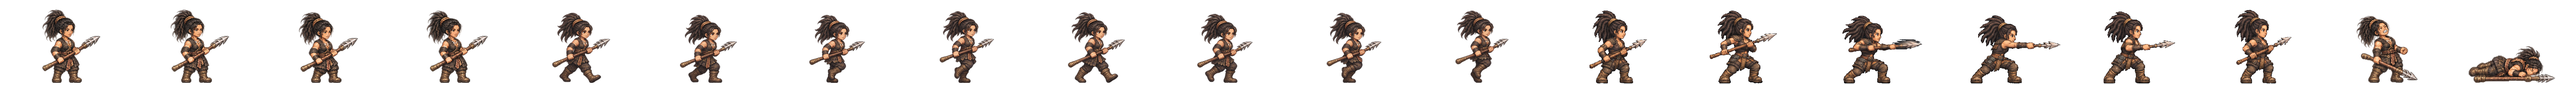
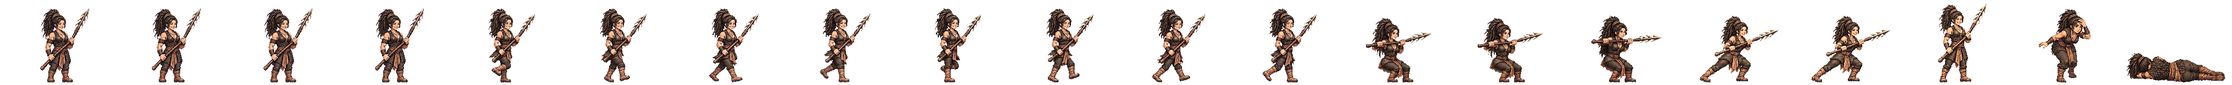
우산 강치 · 벽진 별빛 새 전투 띠를 게임에 (창 · 새 찌르기 · 맞음 네 칸) + 여섯째 묶음 인수인계 · 별빛은 끝까지 찌른 칸 창이 길어 a4 로 · 독립 검수 둘 다 넣어도 된다 · 자루 곧음 확인
Claude-Session: https://claude.ai/code/session_01TRiuN7s6aDfSnaHxrkctmU

Changed region(s): [[0.0, 0.0938, 1.0, 1.0]]

diff --git a/src/realm/data/spritePx.ts b/src/realm/data/spritePx.ts
@@ -1,3 +1,3 @@
 /** public/realm/anim-px/manifest.json 의 사본 — tools/sprite-normalize.mjs 가 만든다 (손으로 고치지 말 것). 칸 [가로, 세로] · feet = 발 줄(칸 위에서 y) · bodyPx = 서 있는 몸 키 */
 import { expandManifest } from './sprite-manifest.ts'
-export const SPRITE_PX: Readonly<Record<string, { readonly cell: readonly [number, number]; readonly feet: number; readonly bodyPx: number; readonly kind: 'general' | 'soldier' | 'folk' | 'crowd'; readonly cells: number }>> = expandManifest<{ readonly cell: readonly [number, number]; readonly feet: number; readonly bodyPx: number; readonly kind: 'general' | 'soldier' | 'folk' | 'crowd'; readonly cells: number }>([{"cell":[166,128],"feet":126,"bodyPx":124,"kind":"soldier","cells":20},{"cell":[116,128],"feet":126,"bodyPx":117,"kind":"soldier","cells":20},{"cell":[127,128],"feet":126,"bodyPx":116,"kind":"soldier","cells":20},{"cell":[269,128],"feet":126,"bodyPx":126,"kind":"soldier","cells":20},{"cell":[503,128],"feet":126,"bodyPx":127,"kind":"soldier","cells":20},{"cell":[614,128],"feet":126,"bodyPx":126,"kind":"soldier","cells":20},{"cell":[200,160],"feet":156,"bodyPx":138,"kind":"general","cells":20},{"cell":[208,160],"feet":155,"bodyPx":138,"kind":"general","cells":20},{"cell":[208,160],"feet":154,"bodyPx":138,"kind":"general","cells":20},{"cell":[304,160],"feet":155,"bodyPx":135,"kind":"general","cells":20},{"cell":[184,160],"feet":156,"bodyPx":138,"kind":"general","cells":20},{"cell":[208,160],"feet":154,"bodyPx":136,"kind":"general","cells":20},{"cell":[240,160],"feet":156,"bodyPx":138,"kind":"general","cells":20},{"cell":[232,160],"feet":156,"bodyPx":138,"kind":"general","cells":20},{"cell":[208,160],"feet":156,"bodyPx":138,"kind":"general","cells":20},{"cell":[168,160],"feet":156,"bodyPx":124,"kind":"general","cells":20},{"cell":[216,160],"feet":156,"bodyPx":130,"kind":"general","cells":20},{"cell":[200,160],"feet":156,"bodyPx":116,"kind":"general","cells":20},{"cell":[192,160],"feet":156,"bodyPx":138,"kind":"general","cells":20},{"cell":[200,160],"feet":156,"bodyPx":135,"kind":"general","cells":20},{"cell":[280,160],"feet":156,"bodyPx":138,"kind":"general","cells":20},{"cell":[232,160],"feet":155,"bodyPx":138,"kind":"general","cells":20},{"cell":[232,160],"feet":156,"bodyPx":134,"kind":"general","cells":20},{"cell":[144,160],"feet":156,"bodyPx":70,"kind":"general","cells":20},{"cell":[208,160],"feet":156,"bodyPx":70,"kind":"general","cells":20},{"cell":[192,160],"feet":156,"bodyPx":70,"kind":"general","cells":20},{"cell":[240,160],"feet":155,"bodyPx":138,"kind":"general","cells":20},{"cell":[160,160],"feet":156,"bodyPx":135,"kind":"general","cells":20},{"cell":[192,160],"feet":156,"bodyPx":128,"kind":"general","cells":20},{"cell":[224,160],"feet":155,"bodyPx":138,"kind":"general","cells":20},{"cell":[232,160],"feet":156,"bodyPx":139,"kind":"general","cells":20},{"cell":[216,160],"feet":156,"bodyPx":138,"kind":"general","cells":20},{"cell":[208,160],"feet":156,"bodyPx":134,"kind":"general","cells":20},{"cell":[176,160],"feet":156,"bodyPx":130,"kind":"general","cells":20},{"cell":[248,160],"feet":156,"bodyPx":138,"kind":"general","cells":20},{"cell":[248,160],"feet":155,"bodyPx":138,"kind":"general","cells":20},{"cell":[192,160],"feet":155,"bodyPx":138,"kind":"general","cells":20},{"cell":[192,160],"feet":156,"bodyPx":124,"kind":"general","cells":20},{"cell":[208,160],"feet":154,"bodyPx":131,"kind":"general","cells":20},{"cell":[256,160],"feet":156,"bodyPx":138,"kind":"general","cells":20},{"cell":[232,160],"feet":156,"bodyPx":73,"kind":"general","cells":20},{"cell":[256,160],"feet":155,"bodyPx":138,"kind":"general","cells":20},{"cell":[264,160],"feet":156,"bodyPx":138,"kind":"general","cells":20},{"cell":[224,160],"feet":156,"bodyPx":138,"kind":"general","cells":20},{"cell":[224,160],"feet":156,"bodyPx":128,"kind":"general","cells":20},{"cell":[176,160],"feet":156,"bodyPx":129,"kind":"general","cells":20},{"cell":[208,160],"feet":154,"bodyPx":139,"kind":"general","cells":20},{"cell":[208,160],"feet":156,"bodyPx":132,"kind":"general","cells":20},{"cell":[208,160],"feet":154,"bodyPx":137,"kind":"general","cells":20},{"cell":[184,160],"feet":156,"bodyPx":122,"kind":"general","cells":20},{"cell":[176,160],"feet":156,"bodyPx":138,"kind":"general","cells":20},{"cell":[280,160],"feet":155,"bodyPx":133,"kind":"general","cells":20},{"cell":[176,160],"feet":156,"bodyPx":70,"kind":"general","cells":20},{"cell":[186,128],"feet":126,"bodyPx":127,"kind":"soldier","cells":20},{"cell":[298,128],"feet":126,"bodyPx":126,"kind":"soldier","cells":20},{"cell":[82,128],"feet":126,"bodyPx":114,"kind":"folk","cells":8},{"cell":[134,128],"feet":126,"bodyPx":119,"kind":"soldier","cells":20},{"cell":[380,128],"feet":126,"bodyPx":124,"kind":"soldier","cells":20},{"cell":[114,128],"feet":126,"bodyPx":115,"kind":"soldier","cells":20},{"cell":[122,128],"feet":126,"bodyPx":114,"kind":"soldier","cells":20},{"cell":[254,128],"feet":126,"bodyPx":128,"kind":"soldier","cells":20},{"cell":[438,128],"feet":126,"bodyPx":126,"kind":"soldier","cells":20},{"cell":[88,128],"feet":126,"bodyPx":113,"kind":"folk","cells":8},{"cell":[100,128],"feet":126,"bodyPx":115,"kind":"folk","cells":8},{"cell":[108,128],"feet":126,"bodyPx":115,"kind":"folk","cells":8},{"cell":[63,128],"feet":126,"bodyPx":113,"kind":"folk","cells":8},{"cell":[69,96],"feet":96,"bodyPx":96,"kind":"crowd","cells":1},{"cell":[54,96],"feet":96,"bodyPx":96,"kind":"crowd","cells":1},{"cell":[47,96],"feet":96,"bodyPx":96,"kind":"crowd","cells":1},{"cell":[49,96],"feet":96,"bodyPx":96,"kind":"crowd","cells":1},{"cell":[57,96],"feet":96,"bodyPx":96,"kind":"crowd","cells":1},{"cell":[55,96],"feet":96,"bodyPx":96,"kind":"crowd","cells":1},{"cell":[45,96],"feet":96,"bodyPx":96,"kind":"crowd","cells":1},{"cell":[53,96],"feet":96,"bodyPx":96,"kind":"crowd","cells":1},{"cell":[64,96],"feet":96,"bodyPx":96,"kind":"crowd","cells":1},{"cell":[184,160],"feet":156,"bodyPx":124,"kind":"general","cells":20},{"cell":[184,160],"feet":156,"bodyPx":134,"kind":"general","cells":20},{"cell":[224,160],"feet":156,"bodyPx":133,"kind":"general","cells":20},{"cell":[192,160],"feet":156,"bodyPx":135,"kind":"general","cells":20},{"cell":[184,160],"feet":156,"bodyPx":137,"kind":"general","cells":20},{"cell":[216,160],"feet":156,"bodyPx":134,"kind":"general","cells":20},{"cell":[216,160],"feet":156,"bodyPx":132,"kind":"general","cells":20},{"cell":[288,160],"feet":156,"bodyPx":138,"kind":"general","cells":20},{"cell":[192,160],"feet":156,"bodyPx":118,"kind":"general","cells":20},{"cell":[208,160],"feet":154,"bodyPx":134,"kind":"general","cells":20},{"cell":[208,160],"feet":154,"bodyPx":128,"kind":"general","cells":20},{"cell":[240,160],"feet":156,"bodyPx":128,"kind":"general","cells":20},{"cell":[184,160],"feet":156,"bodyPx":132,"kind":"general","cells":20},{"cell":[208,160],"feet":156,"bodyPx":123,"kind":"general","cells":20},{"cell":[176,160],"feet":156,"bodyPx":116,"kind":"general","cells":20},{"cell":[272,160],"feet":156,"bodyPx":138,"kind":"general","cells":20},{"cell":[176,160],"feet":156,"bodyPx":122,"kind":"general","cells":20},{"cell":[232,160],"feet":156,"bodyPx":127,"kind":"general","cells":20},{"cell":[168,160],"feet":156,"bodyPx":138,"kind":"general","cells":20},{"cell":[176,160],"feet":156,"bodyPx":137,"kind":"general","cells":20},{"cell":[184,160],"feet":156,"bodyPx":133,"kind":"general","cells":20}],[["axe",0],["bandit-chief",1],["bandit-club",2],["boat",3],["bow",4],["crossbow",5],["gen-adogan",6],["gen-alpyeong",7],["gen-ara",8],["gen-areum",8],["gen-aryeong",9],["gen-bakdal",6],["gen-baram",8],["gen-bdanbi",10],["gen-beom",11],["gen-beombal",8],["gen-beomi",12],["gen-bira",13],["gen-biryu",14],["gen-budeul",8],["gen-byeol",8],["gen-daemusin",15],["gen-daeso",16],["gen-dallae2",10],["gen-dalli",10],["gen-damul",17],["gen-danbi",14],["gen-dangung",18],["gen-darae",19],["gen-dokmudeom",7],["gen-duman",20],["gen-eomni",21],["gen-eureum",22],["gen-g-bow",23],["gen-g-spear",24],["gen-g-sword",25],["gen-gaennae",6],["gen-gamsil",26],["gen-gaon",27],["gen-geota",14],["gen-geumbawi",10],["gen-geumha",28],["gen-goeun",14],["gen-gom",29],["gen-gomok",14],["gen-gureum",26],["gen-guryema",18],["gen-gwaeyu",13],["gen-haebi",8],["gen-haedal",6],["gen-haesol",30],["gen-halla",7],["gen-heo",8],["gen-hneoul",10],["gen-hogong",31],["gen-hojin",14],["gen-horselord",32],["gen-hwalmi",33],["gen-hyeokgeose",18],["gen-hyeopbo",6],["gen-irang",8],["gen-jibaekho",34],["gen-jinha",35],["gen-jita",36],["gen-jumong",37],["gen-keundol",7],["gen-maehwa",38],["gen-maenun",18],["gen-malgalgi",39],["gen-mari",12],["gen-maro",34],["gen-maryeo",14],["gen-mdallae",30],["gen-mir",6],["gen-mount",40],["gen-mulbeom",41],["gen-mulsae",31],["gen-musoe",31],["gen-noeul",8],["gen-nuri",42],["gen-ocheongan",43],["gen-odi",8],["gen-odogan",6],["gen-ogan",18],["gen-oi",44],["gen-olddaeso",22],["gen-onjo",45],["gen-pidogan",14],["gen-sagong",46],["gen-sdallae",6],["gen-sincheongan",31],["gen-singwigan",31],["gen-sinneoul",8],["gen-sobeol",21],["gen-soebi",6],["gen-soebo",47],["gen-soenun",34],["gen-sogeumbi",48],["gen-songbi",43],["gen-songyang",49],["gen-sori",50],["gen-soseono",51],["gen-suro",18],["gen-tahae",6],["gen-tneoul",8],["gen-w-bow",23],["gen-w-spear",52],["gen-waechief",14],["gen-wan",31],["gen-yeodogan",14],["gen-yucheongan",14],["gen-yusugan",34],["horse",53],["marine",54],["migrant",55],["militia",56],["pike",57],["pirate-captain",58],["pirate-sword",59],["shield",60],["spear",61],["villager-builder",62],["villager-farmer",63],["villager-porter",64],["villager-woman",65],["crowd-b1",66],["crowd-b2",67],["crowd-b3",68],["crowd-b4",69],["crowd-b5",70],["crowd-b6",71],["crowd-f1",66],["crowd-f2",71],["crowd-f3",72],["crowd-f4",73],["crowd-f5",66],["crowd-f6",74],["gen-dalbit",14],["gen-base-g-07-drunk-warrior",18],["gen-base-g-40-anya-adan",14],["gen-base-w-13-young-archer",8],["gen-base-g-03-sea-trader",12],["gen-base-w-10-pirate-captain",46],["gen-base-w-64-miri-dallae",46],["gen-base-g-41-goja-bau",12],["gen-base-g-42-dokro-garam",42],["gen-base-g-09-farmer-conscript",31],["gen-base-w-02-goguryeo-lady",31],["gen-base-w-17-mahan-pearl-diver",8],["gen-base-g-17-saro-isageum",47],["gen-base-g-18-daegaya-king",75],["gen-base-g-35-dabeol-dalgu",14],["gen-base-g-19-sabeol-veteran",31],["gen-base-w-23-usisan-whale-queen",8],["gen-base-g-36-gammun-gamdol",43],["gen-base-g-20-samul-sea-lord",39],["gen-base-g-37-eumjeup-jeup",10],["gen-base-g-38-chopal-palmae",18],["gen-base-w-75-daegaya-soemoe",18],["gen-base-g-45-dabeol-deulgae",10],["gen-base-g-04-jinhan-giant",14],["gen-base-g-08-veteran",14],["gen-base-w-18-jinhan-salt-widow",8],["gen-base-w-12-court-dancer",76],["gen-base-w-83-gyeonji-beodeul",77],["gen-base-w-05-baekje-queen",78],["gen-base-w-21-baekje-court-dancer",10],["gen-base-g-01-master-smith",79],["gen-base-g-93-jomun-solgae",33],["gen-base-g-57-bihwa-neup",12],["gen-base-w-72-eumjeup-beol",8],["gen-base-w-102-garak-dana",46],["gen-base-g-68-baekje-onnuri",14],["gen-base-w-27-mokji-jinha",6],["gen-base-g-22-ungcheon-gomnae",6],["gen-base-g-23-sangdang-soedal",14],["gen-base-g-24-wansan-onsan",6],["gen-base-g-25-balla-keunmoe",31],["gen-base-g-61-heomcheuk-bawi",31],["gen-base-g-88-wander-soeul",43],["gen-base-w-14-feast-spy",6],["gen-base-g-12-silla-youth",80],["gen-base-w-08-mahan-warrior",8],["gen-base-g-62-beonye-hanul",12],["gen-base-g-63-heomcheuk-beogeum",14],["gen-base-g-84-wander-seoneul",14],["gen-base-w-50-siljik-mulga",31],["gen-base-g-46-uga-nureongso",31],["gen-base-w-80-usan-gangchi",12],["gen-base-g-47-guga-sanyanggae",31],["gen-base-w-76-gampyeong-baetsagong",8],["gen-base-g-05-mahan-chieftain",81],["gen-base-g-58-usan-uhae",14],["gen-base-g-27-maek-maekdol",14],["gen-base-w-53-hwanna-gabi",46],["gen-base-w-29-golpo-janmul",34],["gen-base-g-53-baekje-haeru",6],["gen-base-w-71-yeonna-neoul",8],["gen-base-w-79-yangmaek-solmae",8],["gen-base-w-34-chopal-deulme",8],["gen-base-g-44-maga-malgup",82],["gen-base-w-31-dabeol-dalbit",46],["gen-base-g-51-biryuna-mulgyeol",43],["gen-base-g-48-gwanna-musoe",14],["gen-base-g-32-uga-sodu",13],["gen-base-g-49-goguryeo-sona",83],["gen-base-g-30-gwanna-soemoe",43],["gen-base-g-52-tamna-oreum",10],["gen-base-g-29-yeonna-myeongsol",37],["gen-base-w-56-dongokjeo-sogeum",84],["gen-base-g-54-mokji-mahan",13],["gen-base-g-33-jeoga-metdol",18],["gen-base-w-36-baekje-maena",8],["gen-base-w-38-sangdang-bulmae",6],["gen-base-w-39-gosaburi-galmae",8],["gen-base-w-40-mujin-munui",47],["gen-base-w-41-hwanna-beodeul",85],["gen-base-w-43-uga-nuri",39],["gen-base-w-45-tamna-oreumbi",10],["gen-base-g-60-golbeol-golgae",10],["gen-base-g-61-apdok-ap",31],["gen-base-g-62-gammun-gamnamu",6],["gen-base-g-63-chopal-yeoul",34],["gen-base-g-64-michuhol-sogeumkkun",12],["gen-base-g-65-sangdang-soemangchi",43],["gen-base-g-66-geonma-malbalgup",86],["gen-base-g-67-gosaburi-buri",87],["gen-base-g-68-mujin-bitgoeul",10],["gen-base-g-69-goryong-yong",43],["gen-base-g-70-siljik-pado",12],["gen-base-w-81-byeokjin-byeolbit",13],["gen-base-w-46-geonma-maru",8],["gen-base-w-48-mujin-mudeung",8],["gen-base-g-26-gampyeong-gaetbeol",13],["gen-base-g-60-eupcha-hangyeol",88],["gen-base-g-15-shaman-man",31],["gen-base-g-85-wander-ure",34],["gen-base-g-43-hwanna-amnok",14],["gen-base-g-50-bullae-gwaha",78],["gen-base-g-55-saro-bakdal",14],["gen-base-g-56-haseulla-gwahama",6],["gen-base-w-06-buyeo-huntress",48],["gen-base-w-22-dongye-tiger-huntress",8],["gen-base-w-25-bihwa-priestess",31],["gen-base-w-24-apdok-queen",10],["gen-base-w-61-iseo-sinae",14],["gen-base-w-26-iseo-tomboy-general",8],["gen-base-g-59-yangmaek-maekson",89],["gen-aw1-haebi",43],["gen-aw1-soseono",90],["gen-aw1-gamsil",10],["gen-aw1-mir",50],["gen-aw1-dangung",6],["gen-aw1-ara",43],["gen-aw1-jumong",91],["gen-aw1-onjo",92],["gen-aw1-base-w-83-gyeonji-beodeul",18],["gen-aw1-heo",42],["gen-aw1-base-g-38-chopal-palmae",6],["gen-aw1-base-w-25-bihwa-priestess",76],["gen-aw1-sori",93],["gen-aw1-gomok",6],["gen-aw1-irang",18],["gen-aw1-budeul",93],["gen-aw1-gom",12],["gen-aw1-sdallae",6],["gen-aw1-base-w-13-young-archer",6],["gen-aw1-base-w-36-baekje-maena",94],["gen-aw1-base-g-09-farmer-conscript",42],["gen-aw1-base-w-02-goguryeo-lady",95],["gen-aw1-haedal",10],["gen-aw1-hogong",6],["gen-aw1-maehwa",50],["gen-aw1-base-w-06-buyeo-huntress",13],["gen-aw1-base-w-08-mahan-warrior",43],["gen-aw1-base-w-29-golpo-janmul",43],["gen-aw1-base-w-31-dabeol-dalbit",18],["gen-aw1-base-w-38-sangdang-bulmae",93],["gen-aw1-bira",31],["gen-aw1-base-w-53-hwanna-gabi",93],["gen-aw1-base-w-56-dongokjeo-sogeum",50],["gen-aw1-base-w-72-eumjeup-beol",18],["gen-aw1-bdanbi",93],["gen-aw1-beom",10],["gen-aw1-beombal",10],["gen-aw1-byeol",18],["gen-aw1-dalli",50],["gen-aw1-malgalgi",34],["gen-aw1-sincheongan",31]])
+export const SPRITE_PX: Readonly<Record<string, { readonly cell: readonly [number, number]; readonly feet: number; readonly bodyPx: number; readonly kind: 'general' | 'soldier' | 'folk' | 'crowd'; readonly cells: number }>> = expandManifest<{ readonly cell: readonly [number, number]; readonly feet: number; readonly bodyPx: number; readonly kind: 'general' | 'soldier' | 'folk' | 'crowd'; readonly cells: number }>([{"cell":[166,128],"feet":126,"bodyPx":124,"kind":"soldier","cells":20},{"cell":[116,128],"feet":126,"bodyPx":117,"kind":"soldier","cells":20},{"cell":[127,128],"feet":126,"bodyPx":116,"kind":"soldier","cells":20},{"cell":[269,128],"feet":126,"bodyPx":126,"kind":"soldier","cells":20},{"cell":[503,128],"feet":126,"bodyPx":127,"kind":"soldier","cells":20},{"cell":[614,128],"feet":126,"bodyPx":126,"kind":"soldier","cells":20},{"cell":[200,160],"feet":156,"bodyPx":138,"kind":"general","cells":20},{"cell":[208,160],"feet":155,"bodyPx":138,"kind":"general","cells":20},{"cell":[208,160],"feet":154,"bodyPx":138,"kind":"general","cells":20},{"cell":[304,160],"feet":155,"bodyPx":135,"kind":"general","cells":20},{"cell":[184,160],"feet":156,"bodyPx":138,"kind":"general","cells":20},{"cell":[208,160],"feet":154,"bodyPx":136,"kind":"general","cells":20},{"cell":[240,160],"feet":156,"bodyPx":138,"kind":"general","cells":20},{"cell":[232,160],"feet":156,"bodyPx":138,"kind":"general","cells":20},{"cell":[208,160],"feet":156,"bodyPx":138,"kind":"general","cells":20},{"cell":[168,160],"feet":156,"bodyPx":124,"kind":"general","cells":20},{"cell":[216,160],"feet":156,"bodyPx":130,"kind":"general","cells":20},{"cell":[200,160],"feet":156,"bodyPx":116,"kind":"general","cells":20},{"cell":[192,160],"feet":156,"bodyPx":138,"kind":"general","cells":20},{"cell":[200,160],"feet":156,"bodyPx":135,"kind":"general","cells":20},{"cell":[280,160],"feet":156,"bodyPx":138,"kind":"general","cells":20},{"cell":[232,160],"feet":155,"bodyPx":138,"kind":"general","cells":20},{"cell":[232,160],"feet":156,"bodyPx":134,"kind":"general","cells":20},{"cell":[144,160],"feet":156,"bodyPx":70,"kind":"general","cells":20},{"cell":[208,160],"feet":156,"bodyPx":70,"kind":"general","cells":20},{"cell":[192,160],"feet":156,"bodyPx":70,"kind":"general","cells":20},{"cell":[240,160],"feet":155,"bodyPx":138,"kind":"general","cells":20},{"cell":[160,160],"feet":156,"bodyPx":135,"kind":"general","cells":20},{"cell":[192,160],"feet":156,"bodyPx":128,"kind":"general","cells":20},{"cell":[224,160],"feet":155,"bodyPx":138,"kind":"general","cells":20},{"cell":[232,160],"feet":156,"bodyPx":139,"kind":"general","cells":20},{"cell":[216,160],"feet":156,"bodyPx":138,"kind":"general","cells":20},{"cell":[208,160],"feet":156,"bodyPx":134,"kind":"general","cells":20},{"cell":[176,160],"feet":156,"bodyPx":130,"kind":"general","cells":20},{"cell":[248,160],"feet":156,"bodyPx":138,"kind":"general","cells":20},{"cell":[248,160],"feet":155,"bodyPx":138,"kind":"general","cells":20},{"cell":[192,160],"feet":155,"bodyPx":138,"kind":"general","cells":20},{"cell":[192,160],"feet":156,"bodyPx":124,"kind":"general","cells":20},{"cell":[208,160],"feet":154,"bodyPx":131,"kind":"general","cells":20},{"cell":[256,160],"feet":156,"bodyPx":138,"kind":"general","cells":20},{"cell":[232,160],"feet":156,"bodyPx":73,"kind":"general","cells":20},{"cell":[256,160],"feet":155,"bodyPx":138,"kind":"general","cells":20},{"cell":[264,160],"feet":156,"bodyPx":138,"kind":"general","cells":20},{"cell":[224,160],"feet":156,"bodyPx":138,"kind":"general","cells":20},{"cell":[224,160],"feet":156,"bodyPx":128,"kind":"general","cells":20},{"cell":[176,160],"feet":156,"bodyPx":129,"kind":"general","cells":20},{"cell":[208,160],"feet":154,"bodyPx":139,"kind":"general","cells":20},{"cell":[208,160],"feet":156,"bodyPx":132,"kind":"general","cells":20},{"cell":[208,160],"feet":154,"bodyPx":137,"kind":"general","cells":20},{"cell":[184,160],"feet":156,"bodyPx":122,"kind":"general","cells":20},{"cell":[176,160],"feet":156,"bodyPx":138,"kind":"general","cells":20},{"cell":[280,160],"feet":155,"bodyPx":133,"kind":"general","cells":20},{"cell":[176,160],"feet":156,"bodyPx":70,"kind":"general","cells":20},{"cell":[186,128],"feet":126,"bodyPx":127,"kind":"soldier","cells":20},{"cell":[298,128],"feet":126,"bodyPx":126,"kind":"soldier","cells":20},{"cell":[82,128],"feet":126,"bodyPx":114,"kind":"folk","cells":8},{"cell":[134,128],"feet":126,"bodyPx":119,"kind":"soldier","cells":20},{"cell":[380,128],"feet":126,"bodyPx":124,"kind":"soldier","cells":20},{"cell":[114,128],"feet":126,"bodyPx":115,"kind":"soldier","cells":20},{"cell":[122,128],"feet":126,"bodyPx":114,"kind":"soldier","cells":20},{"cell":[254,128],"feet":126,"bodyPx":128,"kind":"soldier","cells":20},{"cell":[438,128],"feet":126,"bodyPx":126,"kind":"soldier","cells":20},{"cell":[88,128],"feet":126,"bodyPx":113,"kind":"folk","cells":8},{"cell":[100,128],"feet":126,"bodyPx":115,"kind":"folk","cells":8},{"cell":[108,128],"feet":126,"bodyPx":115,"kind":"folk","cells":8},{"cell":[63,128],"feet":126,"bodyPx":113,"kind":"folk","cells":8},{"cell":[69,96],"feet":96,"bodyPx":96,"kind":"crowd","cells":1},{"cell":[54,96],"feet":96,"bodyPx":96,"kind":"crowd","cells":1},{"cell":[47,96],"feet":96,"bodyPx":96,"kind":"crowd","cells":1},{"cell":[49,96],"feet":96,"bodyPx":96,"kind":"crowd","cells":1},{"cell":[57,96],"feet":96,"bodyPx":96,"kind":"crowd","cells":1},{"cell":[55,96],"feet":96,"bodyPx":96,"kind":"crowd","cells":1},{"cell":[45,96],"feet":96,"bodyPx":96,"kind":"crowd","cells":1},{"cell":[53,96],"feet":96,"bodyPx":96,"kind":"crowd","cells":1},{"cell":[64,96],"feet":96,"bodyPx":96,"kind":"crowd","cells":1},{"cell":[184,160],"feet":156,"bodyPx":124,"kind":"general","cells":20},{"cell":[184,160],"feet":156,"bodyPx":134,"kind":"general","cells":20},{"cell":[224,160],"feet":156,"bodyPx":133,"kind":"general","cells":20},{"cell":[192,160],"feet":156,"bodyPx":135,"kind":"general","cells":20},{"cell":[184,160],"feet":156,"bodyPx":137,"kind":"general","cells":20},{"cell":[216,160],"feet":156,"bodyPx":134,"kind":"general","cells":20},{"cell":[216,160],"feet":156,"bodyPx":132,"kind":"general","cells":20},{"cell":[288,160],"feet":156,"bodyPx":138,"kind":"general","cells":20},{"cell":[192,160],"feet":156,"bodyPx":118,"kind":"general","cells":20},{"cell":[208,160],"feet":154,"bodyPx":134,"kind":"general","cells":20},{"cell":[208,160],"feet":154,"bodyPx":128,"kind":"general","cells":20},{"cell":[240,160],"feet":156,"bodyPx":128,"kind":"general","cells":20},{"cell":[184,160],"feet":156,"bodyPx":132,"kind":"general","cells":20},{"cell":[208,160],"feet":156,"bodyPx":123,"kind":"general","cells":20},{"cell":[176,160],"feet":156,"bodyPx":116,"kind":"general","cells":20},{"cell":[272,160],"feet":156,"bodyPx":138,"kind":"general","cells":20},{"cell":[176,160],"feet":156,"bodyPx":122,"kind":"general","cells":20},{"cell":[232,160],"feet":156,"bodyPx":127,"kind":"general","cells":20},{"cell":[168,160],"feet":156,"bodyPx":138,"kind":"general","cells":20},{"cell":[176,160],"feet":156,"bodyPx":137,"kind":"general","cells":20},{"cell":[184,160],"feet":156,"bodyPx":133,"kind":"general","cells":20}],[["axe",0],["bandit-chief",1],["bandit-club",2],["boat",3],["bow",4],["crossbow",5],["gen-adogan",6],["gen-alpyeong",7],["gen-ara",8],["gen-areum",8],["gen-aryeong",9],["gen-bakdal",6],["gen-baram",8],["gen-bdanbi",10],["gen-beom",11],["gen-beombal",8],["gen-beomi",12],["gen-bira",13],["gen-biryu",14],["gen-budeul",8],["gen-byeol",8],["gen-daemusin",15],["gen-daeso",16],["gen-dallae2",10],["gen-dalli",10],["gen-damul",17],["gen-danbi",14],["gen-dangung",18],["gen-darae",19],["gen-dokmudeom",7],["gen-duman",20],["gen-eomni",21],["gen-eureum",22],["gen-g-bow",23],["gen-g-spear",24],["gen-g-sword",25],["gen-gaennae",6],["gen-gamsil",26],["gen-gaon",27],["gen-geota",14],["gen-geumbawi",10],["gen-geumha",28],["gen-goeun",14],["gen-gom",29],["gen-gomok",14],["gen-gureum",26],["gen-guryema",18],["gen-gwaeyu",13],["gen-haebi",8],["gen-haedal",6],["gen-haesol",30],["gen-halla",7],["gen-heo",8],["gen-hneoul",10],["gen-hogong",31],["gen-hojin",14],["gen-horselord",32],["gen-hwalmi",33],["gen-hyeokgeose",18],["gen-hyeopbo",6],["gen-irang",8],["gen-jibaekho",34],["gen-jinha",35],["gen-jita",36],["gen-jumong",37],["gen-keundol",7],["gen-maehwa",38],["gen-maenun",18],["gen-malgalgi",39],["gen-mari",12],["gen-maro",34],["gen-maryeo",14],["gen-mdallae",30],["gen-mir",6],["gen-mount",40],["gen-mulbeom",41],["gen-mulsae",31],["gen-musoe",31],["gen-noeul",8],["gen-nuri",42],["gen-ocheongan",43],["gen-odi",8],["gen-odogan",6],["gen-ogan",18],["gen-oi",44],["gen-olddaeso",22],["gen-onjo",45],["gen-pidogan",14],["gen-sagong",46],["gen-sdallae",6],["gen-sincheongan",31],["gen-singwigan",31],["gen-sinneoul",8],["gen-sobeol",21],["gen-soebi",6],["gen-soebo",47],["gen-soenun",34],["gen-sogeumbi",48],["gen-songbi",43],["gen-songyang",49],["gen-sori",50],["gen-soseono",51],["gen-suro",18],["gen-tahae",6],["gen-tneoul",8],["gen-w-bow",23],["gen-w-spear",52],["gen-waechief",14],["gen-wan",31],["gen-yeodogan",14],["gen-yucheongan",14],["gen-yusugan",34],["horse",53],["marine",54],["migrant",55],["militia",56],["pike",57],["pirate-captain",58],["pirate-sword",59],["shield",60],["spear",61],["villager-builder",62],["villager-farmer",63],["villager-porter",64],["villager-woman",65],["crowd-b1",66],["crowd-b2",67],["crowd-b3",68],["crowd-b4",69],["crowd-b5",70],["crowd-b6",71],["crowd-f1",66],["crowd-f2",71],["crowd-f3",72],["crowd-f4",73],["crowd-f5",66],["crowd-f6",74],["gen-dalbit",14],["gen-base-g-07-drunk-warrior",18],["gen-base-g-40-anya-adan",14],["gen-base-w-13-young-archer",8],["gen-base-g-03-sea-trader",12],["gen-base-w-10-pirate-captain",46],["gen-base-w-64-miri-dallae",46],["gen-base-g-41-goja-bau",12],["gen-base-g-42-dokro-garam",42],["gen-base-g-09-farmer-conscript",31],["gen-base-w-02-goguryeo-lady",31],["gen-base-w-17-mahan-pearl-diver",8],["gen-base-g-17-saro-isageum",47],["gen-base-g-18-daegaya-king",75],["gen-base-g-35-dabeol-dalgu",14],["gen-base-g-19-sabeol-veteran",31],["gen-base-w-23-usisan-whale-queen",8],["gen-base-g-36-gammun-gamdol",43],["gen-base-g-20-samul-sea-lord",39],["gen-base-g-37-eumjeup-jeup",10],["gen-base-g-38-chopal-palmae",18],["gen-base-w-75-daegaya-soemoe",18],["gen-base-g-45-dabeol-deulgae",10],["gen-base-g-04-jinhan-giant",14],["gen-base-g-08-veteran",14],["gen-base-w-18-jinhan-salt-widow",8],["gen-base-w-12-court-dancer",76],["gen-base-w-83-gyeonji-beodeul",77],["gen-base-w-05-baekje-queen",78],["gen-base-w-21-baekje-court-dancer",10],["gen-base-g-01-master-smith",79],["gen-base-g-93-jomun-solgae",33],["gen-base-g-57-bihwa-neup",12],["gen-base-w-72-eumjeup-beol",8],["gen-base-w-102-garak-dana",46],["gen-base-g-68-baekje-onnuri",14],["gen-base-w-27-mokji-jinha",6],["gen-base-g-22-ungcheon-gomnae",6],["gen-base-g-23-sangdang-soedal",14],["gen-base-g-24-wansan-onsan",6],["gen-base-g-25-balla-keunmoe",31],["gen-base-g-61-heomcheuk-bawi",31],["gen-base-g-88-wander-soeul",43],["gen-base-w-14-feast-spy",6],["gen-base-g-12-silla-youth",80],["gen-base-w-08-mahan-warrior",8],["gen-base-g-62-beonye-hanul",12],["gen-base-g-63-heomcheuk-beogeum",14],["gen-base-g-84-wander-seoneul",14],["gen-base-w-50-siljik-mulga",31],["gen-base-g-46-uga-nureongso",31],["gen-base-w-80-usan-gangchi",46],["gen-base-g-47-guga-sanyanggae",31],["gen-base-w-76-gampyeong-baetsagong",8],["gen-base-g-05-mahan-chieftain",81],["gen-base-g-58-usan-uhae",14],["gen-base-g-27-maek-maekdol",14],["gen-base-w-53-hwanna-gabi",46],["gen-base-w-29-golpo-janmul",34],["gen-base-g-53-baekje-haeru",6],["gen-base-w-71-yeonna-neoul",8],["gen-base-w-79-yangmaek-solmae",8],["gen-base-w-34-chopal-deulme",8],["gen-base-g-44-maga-malgup",82],["gen-base-w-31-dabeol-dalbit",46],["gen-base-g-51-biryuna-mulgyeol",43],["gen-base-g-48-gwanna-musoe",14],["gen-base-g-32-uga-sodu",13],["gen-base-g-49-goguryeo-sona",83],["gen-base-g-30-gwanna-soemoe",43],["gen-base-g-52-tamna-oreum",10],["gen-base-g-29-yeonna-myeongsol",37],["gen-base-w-56-dongokjeo-sogeum",84],["gen-base-g-54-mokji-mahan",13],["gen-base-g-33-jeoga-metdol",18],["gen-base-w-36-baekje-maena",8],["gen-base-w-38-sangdang-bulmae",6],["gen-base-w-39-gosaburi-galmae",8],["gen-base-w-40-mujin-munui",47],["gen-base-w-41-hwanna-beodeul",85],["gen-base-w-43-uga-nuri",39],["gen-base-w-45-tamna-oreumbi",10],["gen-base-g-60-golbeol-golgae",10],["gen-base-g-61-apdok-ap",31],["gen-base-g-62-gammun-gamnamu",6],["gen-base-g-63-chopal-yeoul",34],["gen-base-g-64-michuhol-sogeumkkun",12],["gen-base-g-65-sangdang-soemangchi",43],["gen-base-g-66-geonma-malbalgup",86],["gen-base-g-67-gosaburi-buri",87],["gen-base-g-68-mujin-bitgoeul",10],["gen-base-g-69-goryong-yong",43],["gen-base-g-70-siljik-pado",12],["gen-base-w-81-byeokjin-byeolbit",8],["gen-base-w-46-geonma-maru",8],["gen-base-w-48-mujin-mudeung",8],["gen-base-g-26-gampyeong-gaetbeol",13],["gen-base-g-60-eupcha-hangyeol",88],["gen-base-g-15-shaman-man",31],["gen-base-g-85-wander-ure",34],["gen-base-g-43-hwanna-amnok",14],["gen-base-g-50-bullae-gwaha",78],["gen-base-g-55-saro-bakdal",14],["gen-base-g-56-haseulla-gwahama",6],["gen-base-w-06-buyeo-huntress",48],["gen-base-w-22-dongye-tiger-huntress",8],["gen-base-w-25-bihwa-priestess",31],["gen-base-w-24-apdok-queen",10],["gen-base-w-61-iseo-sinae",14],["gen-base-w-26-iseo-tomboy-general",8],["gen-base-g-59-yangmaek-maekson",89],["gen-aw1-haebi",43],["gen-aw1-soseono",90],["gen-aw1-gamsil",10],["gen-aw1-mir",50],["gen-aw1-dangung",6],["gen-aw1-ara",43],["gen-aw1-jumong",91],["gen-aw1-onjo",92],["gen-aw1-base-w-83-gyeonji-beodeul",18],["gen-aw1-heo",42],["gen-aw1-base-g-38-chopal-palmae",6],["gen-aw1-base-w-25-bihwa-priestess",76],["gen-aw1-sori",93],["gen-aw1-gomok",6],["gen-aw1-irang",18],["gen-aw1-budeul",93],["gen-aw1-gom",12],["gen-aw1-sdallae",6],["gen-aw1-base-w-13-young-archer",6],["gen-aw1-base-w-36-baekje-maena",94],["gen-aw1-base-g-09-farmer-conscript",42],["gen-aw1-base-w-02-goguryeo-lady",95],["gen-aw1-haedal",10],["gen-aw1-hogong",6],["gen-aw1-maehwa",50],["gen-aw1-base-w-06-buyeo-huntress",13],["gen-aw1-base-w-08-mahan-warrior",43],["gen-aw1-base-w-29-golpo-janmul",43],["gen-aw1-base-w-31-dabeol-dalbit",18],["gen-aw1-base-w-38-sangdang-bulmae",93],["gen-aw1-bira",31],["gen-aw1-base-w-53-hwanna-gabi",93],["gen-aw1-base-w-56-dongokjeo-sogeum",50],["gen-aw1-base-w-72-eumjeup-beol",18],["gen-aw1-bdanbi",93],["gen-aw1-beom",10],["gen-aw1-beombal",10],["gen-aw1-byeol",18],["gen-aw1-dalli",50],["gen-aw1-malgalgi",34],["gen-aw1-sincheongan",31]])

diff --git a/src/duel/view.ts b/src/duel/view.ts
@@ -100,7 +100,7 @@ const crowdFront = [1, 2, 3, 4, 5, 6].map((i) => img(`realm/duel/crowd/b${i}.png
 const crowdReady = (set: HTMLImageElement[]): boolean => set.every((im) => im.complete && im.naturalWidth > 0)
 const pxMode = cfg.px !== false && params.get('px') !== '0'
 /** 겨루기 전용 옛 띠(duel/sprites) 대신 열전과 같은 도트 띠(anim-px)를 쓰는 장수 — 두 판에서 같은 모습 · 서기 계획·쓰러지는 칸도 같다 (11-23 범 · 매화 · 달빛 · 11-24 해비 · 아룸) */
-const PX_DUEL: ReadonlySet<string> = new Set(['beom', 'maehwa', 'base-w-31-dabeol-dalbit', 'haebi', 'areum', 'base-w-13-young-archer', 'base-w-10-pirate-captain', 'base-w-17-mahan-pearl-diver', 'base-w-06-buyeo-huntress', 'base-w-64-miri-dallae', 'ara', 'base-w-22-dongye-tiger-huntress', 'noeul', 'sagong', 'sinneoul', 'heo', 'base-w-08-mahan-warrior', 'base-w-23-usisan-whale-queen', 'base-w-26-iseo-tomboy-general', 'base-w-72-eumjeup-beol', 'tneoul', 'odi', 'base-w-76-gampyeong-baetsagong', 'base-w-34-chopal-deulme', 'base-w-102-garak-dana', 'base-w-36-baekje-maena', 'base-w-56-dongokjeo-sogeum', 'budeul', 'base-w-53-hwanna-gabi', 'base-w-18-jinhan-salt-widow', 'beombal', 'irang', 'sogeumbi', 'baram', 'byeol', 'base-w-71-yeonna-neoul', 'base-w-39-gosaburi-galmae', 'base-w-41-hwanna-beodeul', 'base-w-79-yangmaek-solmae', 'base-w-46-geonma-maru', 'base-w-48-mujin-mudeung'])
+const PX_DUEL: ReadonlySet<string> = new Set(['beom', 'maehwa', 'base-w-31-dabeol-dalbit', 'haebi', 'areum', 'base-w-13-young-archer', 'base-w-10-pirate-captain', 'base-w-17-mahan-pearl-diver', 'base-w-06-buyeo-huntress', 'base-w-64-miri-dallae', 'ara', 'base-w-22-dongye-tiger-huntress', 'noeul', 'sagong', 'sinneoul', 'heo', 'base-w-08-mahan-warrior', 'base-w-23-usisan-whale-queen', 'base-w-26-iseo-tomboy-general', 'base-w-72-eumjeup-beol', 'tneoul', 'odi', 'base-w-76-gampyeong-baetsagong', 'base-w-34-chopal-deulme', 'base-w-102-garak-dana', 'base-w-36-baekje-maena', 'base-w-56-dongokjeo-sogeum', 'budeul', 'base-w-53-hwanna-gabi', 'base-w-18-jinhan-salt-widow', 'beombal', 'irang', 'sogeumbi', 'baram', 'byeol', 'base-w-71-yeonna-neoul', 'base-w-39-gosaburi-galmae', 'base-w-41-hwanna-beodeul', 'base-w-79-yangmaek-solmae', 'base-w-46-geonma-maru', 'base-w-48-mujin-mudeung', 'base-w-80-usan-gangchi', 'base-w-81-byeokjin-byeolbit'])
 /** 띠 그림 — 기본은 anim-px(도트 규격) 먼저, 없으면 옛 띠로 (img 의 onerror 가 갈아 끼운다) */
 const strip = (s: string): HTMLImageElement => pxMode
   ? DUEL_ATLASES[s] !== undefined && !PX_DUEL.has(s) ? img(`realm/duel/sprites/gen-${s}.png`, `realm/anim-px/gen-${s}.png`)

diff --git a/src/tune/params.ts b/src/tune/params.ts
@@ -1460,6 +1460,8 @@ export const HAEBI_IDLE = {
     'base-w-79-yangmaek-solmae': { cells: 26, base: [0, 1], hold: 2.4, fall: [18, 20, 21, 19], quirk: [22, 23, 24, 25], quirkTimes: [.28, .3, .42, .25] },
     'base-w-46-geonma-maru': { cells: 38, base: [0, 1], hold: 2.4, fall: [18, 20, 21, 19], quirk: [22, 23, 24, 25], quirkTimes: [.3, .32, .4, .28], attack: { cells: [26, 27, 28, 29, 30, 31, 32, 33], times: [.09, .08, .11, .12, .12, .08, .08, .12], hit: 3 }, hurt: [34, 35], rise: [36, 37], xGeom: { h: 224, root: 92, foot: 216 } },
     'base-w-48-mujin-mudeung': { cells: 38, base: [0, 1], hold: 2.4, fall: [18, 20, 21, 19], quirk: [22, 23, 24, 25], quirkTimes: [.3, .32, .4, .28], attack: { cells: [26, 27, 28, 29, 30, 31, 32, 33], times: [.09, .08, .11, .12, .12, .08, .08, .12], hit: 3 }, hurt: [34, 35], rise: [36, 37], xGeom: { h: 224, root: 92, foot: 216 } },
+    'base-w-80-usan-gangchi': { cells: 38, base: [0, 1], hold: 2.4, fall: [18, 20, 21, 19], quirk: [22, 23, 24, 25], quirkTimes: [.3, .32, .4, .28], attack: { cells: [26, 27, 28, 29, 30, 31, 32, 33], times: [.09, .08, .11, .05, .15, .07, .08, .12], hit: 4 }, hurt: [34, 35], rise: [36, 37], xGeom: { h: 224, root: 92, foot: 216 } },
+    'base-w-81-byeokjin-byeolbit': { cells: 38, base: [0, 1], hold: 2.4, fall: [18, 20, 21, 19], quirk: [22, 23, 24, 25], quirkTimes: [.3, .32, .4, .28], attack: { cells: [26, 27, 28, 29, 30, 31, 32, 33], times: [.09, .08, .11, .12, .12, .08, .08, .12], hit: 3 }, hurt: [34, 35], rise: [36, 37], xGeom: { h: 224, root: 92, foot: 216 } },
   },
 } as const
 export const HAEBI_ANIM = {

diff --git a/src/raid/hero-hd.ts b/src/raid/hero-hd.ts
@@ -6,8 +6,6 @@ export const HERO_HD: Readonly<Record<string, string>> = {
   'anim-px/gen-base-g-62-beonye-hanul.png': 'anim-px/gen-base-g-62-beonye-hanul_hd.png',
   'anim-px/gen-base-g-61-heomcheuk-bawi.png': 'anim-px/gen-base-g-61-heomcheuk-bawi_hd.png',
   'anim-px/gen-base-w-83-gyeonji-beodeul.png': 'anim-px/gen-base-w-83-gyeonji-beodeul_hd.png',
-  'anim-px/gen-base-w-81-byeokjin-byeolbit.png': 'anim-px/gen-base-w-81-byeokjin-byeolbit_hd.png',
-  'anim-px/gen-base-w-80-usan-gangchi.png': 'anim-px/gen-base-w-80-usan-gangchi_hd.png',
   'anim-px/gen-base-w-75-daegaya-soemoe.png': 'anim-px/gen-base-w-75-daegaya-soemoe_hd.png',
   'anim-px/gen-base-w-61-iseo-sinae.png': 'anim-px/gen-base-w-61-iseo-sinae_hd.png',
   'anim-px/gen-base-w-50-siljik-mulga.png': 'anim-px/gen-base-w-50-siljik-mulga_hd.png',

diff --git a/tools/sprite-kit/anim-harness.py b/tools/sprite-kit/anim-harness.py
@@ -80,8 +80,8 @@ HEROES = {
     'maru': dict(hit=True, strip='gen-base-w-46-geonma-maru', atk='thrust', src='thrust2', actw=264, refoot=True, atk8=True, act=True, legacy=(('a', 2), ('a', 3), ('b', 3), ('b', 4)), cells8=[('a', 1), ('a', 2), ('a', 3), ('a', 4), ('a', 4), ('a', 4), ('b', 3), ('b', 4)]),   # 건마 마루(짧은 창 · 가슴 M) · 여섯째 묶음 · refoot: 찌르기 b 가 인형보다 넓게 뻗어 통째 겹침이 -42px 밀려 b3·b4 의 발을 잘못 잡았다(bake-scene attack4)
     'mudeung': dict(hit=True, strip='gen-base-w-48-mujin-mudeung', atk='thrust', src='thrust2', actw=264, refoot=True, atk8=True, act=True, legacy=(('a', 2), ('a', 3), ('b', 3), ('a', 1)), cells8=[('a', 1), ('a', 2), ('a', 3), ('a', 4), ('a', 4), ('a', 4), ('a', 3), ('a', 1)]),   # 무진 무등(깃털 단 창 · 우람한 뼈대 · 나이 든 얼굴) · 여섯째 묶음 · 찌르기 b 칸4 가 서기보다 9% 크게 그려져(키 150 · 다시 그리기 한 번 씀) 끝 칸을 a1 로(뱃사공과 같은 길)
     'yneoul': dict(hit=True, strip='gen-base-w-71-yeonna-neoul', atk='thrust', src='thrust2', actw=264, refoot=True, atk8=True, act=True, legacy=(('a', 2), ('a', 3), ('b', 3), ('b', 4))),   # 연나 너울(창 · 가슴 M) · 여섯째 묶음
-    'gangchi': dict(pending=True, hit=True, strip='gen-base-w-80-usan-gangchi', atk='thrust', src='thrust2', actw=264, refoot=True, atk8=True, act=True, legacy=(('a', 2), ('a', 3), ('b', 3), ('b', 4))),   # 우산 강치(미늘창 · 가슴 M) · 여섯째 묶음
-    'byeolbit': dict(pending=True, hit=True, strip='gen-base-w-81-byeokjin-byeolbit', atk='thrust', src='thrust2', actw=264, refoot=True, atk8=True, act=True, legacy=(('a', 2), ('a', 3), ('b', 3), ('b', 4))),   # 벽진 별빛(창 · 비늘 갑옷 · 가슴 M) · 여섯째 묶음
+    'gangchi': dict(hit=True, strip='gen-base-w-80-usan-gangchi', atk='thrust', src='thrust2', actw=264, refoot=True, atk8=True, act=True, legacy=(('a', 2), ('a', 3), ('b', 3), ('b', 4))),   # 우산 강치(미늘창 · 가슴 M) · 여섯째 묶음
+    'byeolbit': dict(hit=True, strip='gen-base-w-81-byeokjin-byeolbit', atk='thrust', src='thrust2', actw=264, refoot=True, atk8=True, act=True, legacy=(('a', 2), ('a', 3), ('b', 3), ('b', 4)), cells8=[('a', 1), ('a', 2), ('a', 3), ('a', 4), ('a', 4), ('a', 4), ('b', 3), ('b', 4)]),   # 벽진 별빛(창 · 비늘 갑옷 · 가슴 M) · 여섯째 묶음
     'haebi': dict(hit=True, strip='gen-haebi', atk='chop', atk8=True, act=True),   # act = 공격 여덟 칸이 넓은 동작 칸(240×224 · 뿌리 92 · 발 줄 216)
     'areum': dict(hit=True, strip='gen-areum', atk='slam', atk8=True, act=True, lock='none'),   # 받은 그림 그대로(얼굴을 떠다 붙이지 않는다 — 11-24: 뭉친 얼굴이 여덟 칸에 퍼졌다) · 옛 lock='face': 메가 머리 뒤로 지나간다 — 머리 상자는 메를 자르고(「포스터」), 윗몸을 통째로 묶으면 떠다닌다(11-24 형) → 얼굴 안쪽만 묶는다
 }

diff --git a/docs/realm/production/CLAUDE-HANDOFF-20261124.md b/docs/realm/production/CLAUDE-HANDOFF-20261124.md
@@ -140,6 +140,14 @@
 - Claude API 검수(`node tools/claude-review.mjs thrust2-flow … --brief=tools/out/review/brief-thrust-flow.md` · 결과 `tools/out/review/claude-thrust2-flow.json`): 사냥꾼 · 들메는 걸린 것 없음. 걸린 것 — 끝까지 찌른 칸의 무기가 서기보다 1.3~1.4배 길다(범 사냥꾼 · 탐라 너울 · 뱃사공 · 사공 · 해녀 · 마한 전사 · 범 사냥꾼과 사공은 당기는 칸에서는 오히려 짧음) · 끝 칸이 서기보다 큼(달래 · 허황옥) · 오디 걷기 칸 망토 끝 자홍 점 · 허황옥 개성 동작에 청록 얼룩·몸이 가늘어짐 · 뱃사공 개성 동작이 닫힌 조끼로 · 마한 전사 뛰어드는 칸 머리가 풀림. 맞음 칸 줄(신지 너울 · 고래 여왕 · 해녀)에 「맞음-서기-맞음」 차례가 걸렸는데 하네스 GIF 의 맞음 차례 문제로 보인다(코디네이터 몫).
 - 못 본 것: 게임 화면에서 실제 박자로 도는 모습(띠 검사·시험만 통과).
 
+## 여섯째 묶음 (창 장수 다섯 · 11-24 밤) — 벽진 별(앞서) + 건마 마루 · 무진 무등 · 연나 너울 · 우산 강치 · 벽진 별빛 게임에 들어감
+- 모두 새 찌르기 인형(thrust2 · actw=264) · 맞음·일어남 네 칸(그림 API) · 쓰러짐 · 개성 동작. 하네스 HEROES 줄은 `pending` 을 뺐다.
+- **끝까지 찌른 칸(b1·b2)의 창이 서기보다 짧거나(마루·무등 -30%) 길다(별빛 +30%)** → 확대해 확인한 뒤 `cells8` 의 b1·b2 를 a4(깊이 찌르는 a 칸 · 창 길이 맞음)로 바꿨다. 마루·별빛 `[a1,a2,a3,a4,a4,a4,b3,b4]` · 무등 `[a1,a2,a3,a4,a4,a4,a3,a1]`(b3 도 창이 16% 길어서). wire-hero 는 `hit=3 times=.09,.08,.11,.12,.12,.08,.08,.12`. 강치는 b 그대로(창 +14% · 곧음 · 검수 통과).
+- 자루 곧음 검수 항목을 새로 넣었다(형 「강치 창이 꺾여 있다」). 강치 31칸 · 별빛 · 마루 · 무등 · 너울 모두 꺾임 없음(확대해서 봄). 강치 꺾임 보고는 받은 판(서기·걷기·찌르기 a·b·개성 동작)에서 못 찾았다 — Codex 판 원본은 곧았다.
+- 쓰러짐: e2 판은 `flip4` 없이 굽는다(넣으면 머리가 오른쪽으로 간다 · 너울 · 강치 확인).
+- 검수: 독립 검수(sonnet) + 확대 확인. **Claude API 검수는 못 돌렸다**(Downloads 클로드키.txt 가 없다). 남은 흠(경미): 무등 찌르기 칸에 자홍 점 하나 · 너울 칸23 키 +3.6% · 너울 칸19 자락 번짐 · 별빛 끝까지 찌른 칸에서 두 팔이 살짝 굽음.
+
+
 ## 영상 후순위 다시 굽기 (11-24 저녁 · 형 「일단 만든 건 넣어 · 나중에 후순위로 다시」)
 - 호진 승·패 · 아라 승·패: 11-24 판은 스킬바디 전신에서 시작했다(원래는 원화). 원화에서 다시 굽는다 — 무기 잘림은 그림 둘레에 바탕을 넓혀 판에 넣는 식으로(입력 그림은 바꾸지 않는다 · 메모리 ending-video-input-portrait).
 - 유청간 각성 고리: 끝에 말하는 입 · 중간에 얼굴이 못생겨짐 → 미등록. 문안에 「입 다묾 · 말하지 않음 · 얼굴 그대로」.
